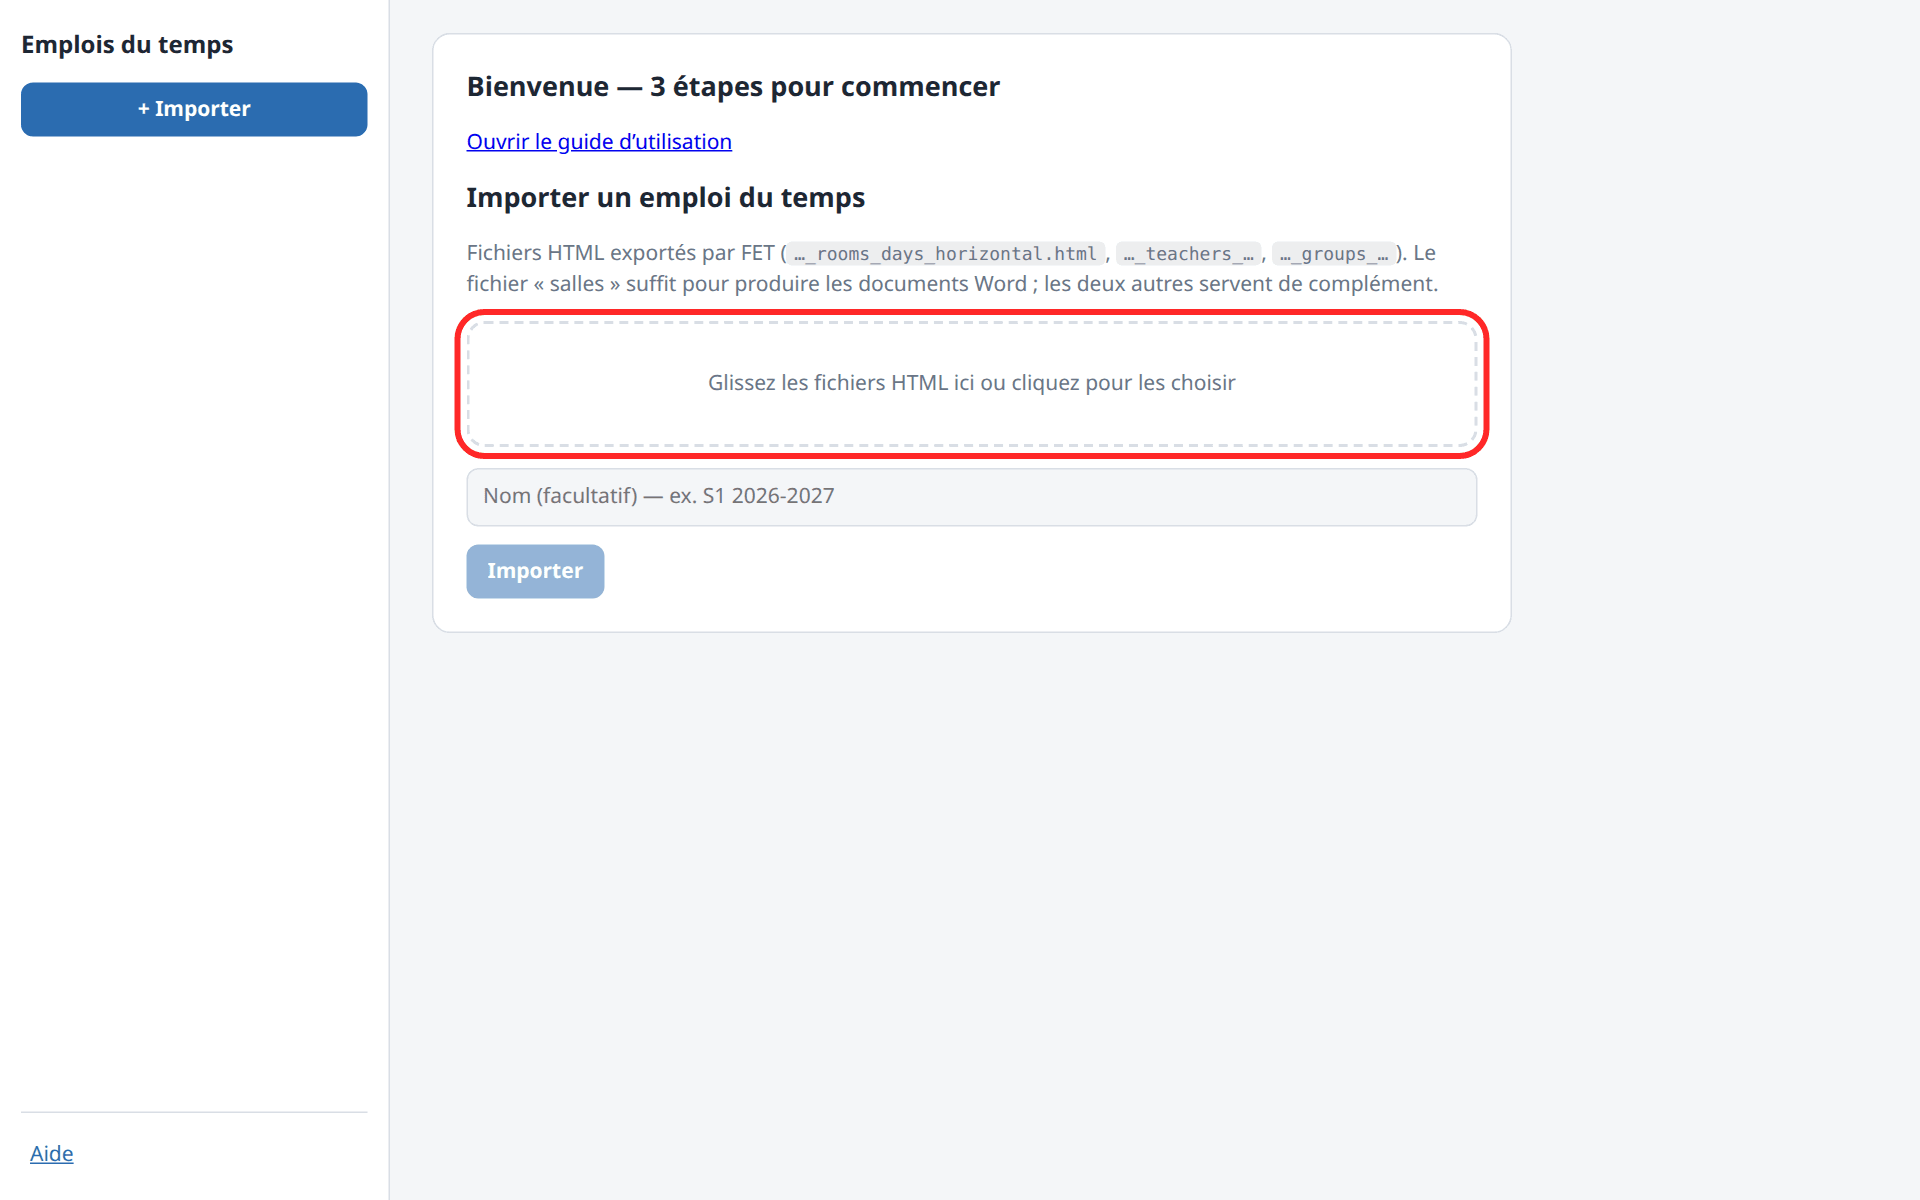
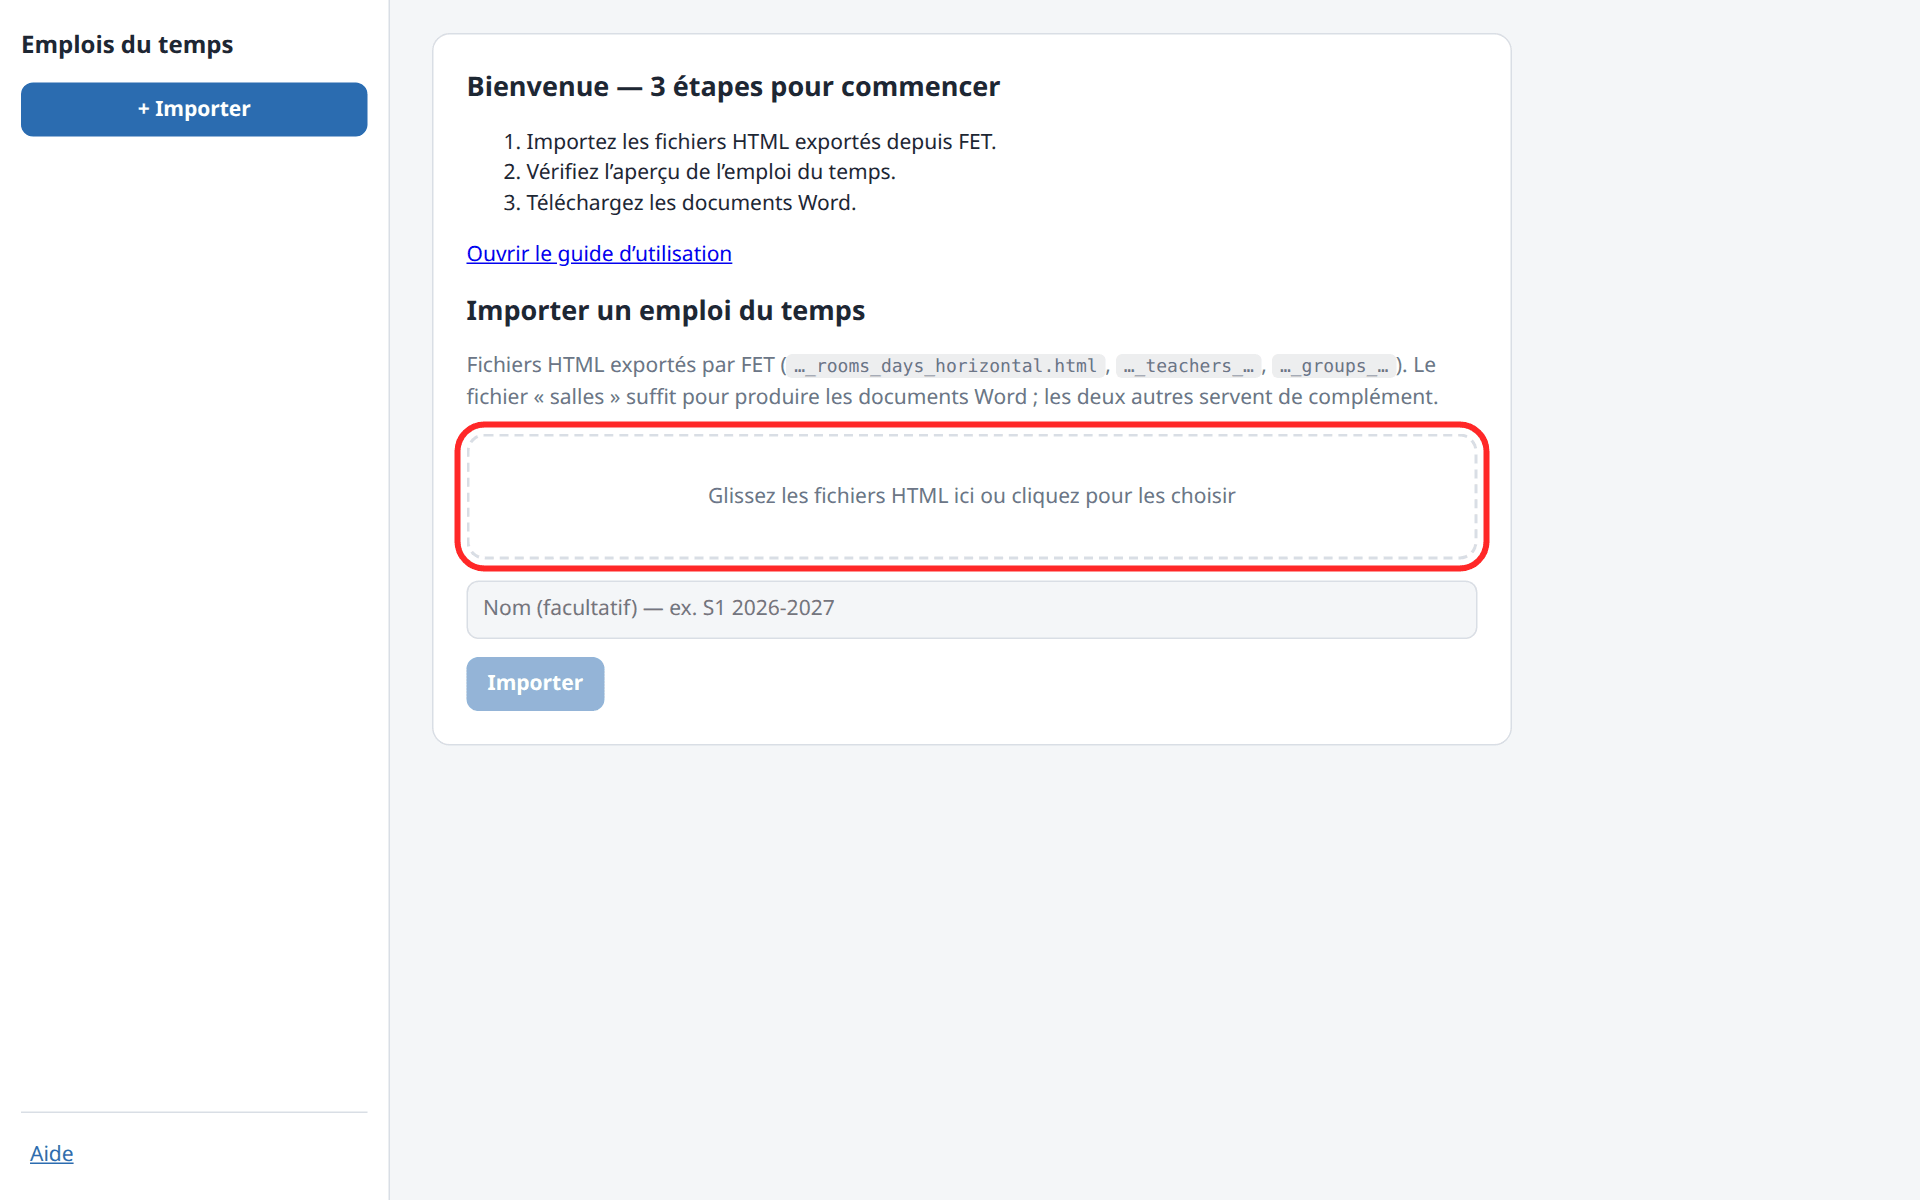
fix: address user guide review findings

Changed region(s): [[0.2188, 0.0925, 0.7812, 0.6167]]

diff --git a/apps/web/test/guide.test.tsx b/apps/web/test/guide.test.tsx
@@ -4,6 +4,8 @@ import path from 'node:path';
 import ts from 'typescript';
 import { afterEach, describe, expect, it } from 'vitest';
 import { renderGuide } from '../../../scripts/guide-build.mjs';
+import Guide from '../app/aide/guide';
+import { fireEvent, render, screen, waitFor } from '@testing-library/react';
 
 const root = path.resolve(__dirname, '../../..');
 const temporary: string[] = [];
@@ -33,6 +35,15 @@ describe('guide build', () => {
     expect(html).toContain('id="chapitre"');
     expect(html).toContain('href="#chapitre"');
     expect(html).toContain('src="/guide/example.png"');
+    expect(html).toContain('alt="Exemple"');
+  });
+
+  it('decodes a percent-encoded image filename before checking it exists', () => {
+    const directory = fixtureRoot();
+    fs.writeFileSync(path.join(directory, 'apps/web/public/guide/été.png'), 'fake image');
+    const html = renderGuide('# Guide\n\n![Été](../apps/web/public/guide/%C3%A9t%C3%A9.png)', directory);
+    expect(html).toContain('src="/guide/%C3%A9t%C3%A9.png"');
+    expect(html).toContain('alt="Été"');
   });
 
   it('rejects a broken internal anchor', () => {
@@ -54,12 +65,26 @@ describe('guide build', () => {
 });
 
 describe('guide drift protection', () => {
-  it('keeps every bracketed UI label verbatim in the web or desktop source', () => {
+  it('keeps every bracketed UI label as an exact static value in the web or desktop source', () => {
     const guide = fs.readFileSync(path.join(root, 'docs/guide-utilisateur.fr.md'), 'utf8');
-    const source = sourceFiles.map((file) => fs.readFileSync(path.join(root, file), 'utf8')).join('\n');
+    const sourceValues = new Set<string>();
+    const addValue = (value: string) => {
+      const normalized = value.replace(/\s+/g, ' ').trim();
+      if (normalized) sourceValues.add(normalized);
+    };
+    for (const file of sourceFiles) {
+      const source = fs.readFileSync(path.join(root, file), 'utf8');
+      const ast = ts.createSourceFile(file, source, ts.ScriptTarget.Latest, true, ts.ScriptKind.TSX);
+      const visit = (node: ts.Node) => {
+        if (ts.isJsxText(node)) addValue(node.text);
+        if (ts.isStringLiteralLike(node) || ts.isNoSubstitutionTemplateLiteral(node)) addValue(node.text);
+        ts.forEachChild(node, visit);
+      };
+      visit(ast);
+    }
     const labels = [...guide.matchAll(/\*\*\[([^\]]+)\]\*\*/g)].map((match) => match[1]);
     expect(labels.length).toBeGreaterThan(20);
-    const missing = [...new Set(labels)].filter((label) => !source.includes(label));
+    const missing = [...new Set(labels)].filter((label) => !sourceValues.has(label.replace(/\s+/g, ' ').trim()));
     expect(missing, `Labels absents des sources : ${missing.join(', ')}`).toEqual([]);
   });
 
@@ -69,6 +94,8 @@ describe('guide drift protection', () => {
       'Le rappel de mise à jour doit être une fonction': 'Invalid preload callback; internal IPC programming error, not an end-user message.',
       'Backend introuvable': 'Packaging integrity error that needs support; the missing backend path is technical and cannot be repaired by staff.',
       'Vous avez la dernière version': 'Informational success message, not an error.',
+      'Arguments IPC inattendus': 'Internal IPC validation guard; malformed calls can only come from application code, not a user action.',
+      'Chemin de fichier invalide': 'Internal IPC validation guard; the file path is supplied by the application after the native save dialog.',
     };
     const sources = ['apps/api/src', 'apps/desktop/src'].flatMap((directory) => {
       const walk = (current: string): string[] => fs.readdirSync(path.join(root, current), { withFileTypes: true })
@@ -89,15 +116,15 @@ describe('guide drift protection', () => {
       const visit = (node: ts.Node) => {
         if (ts.isNewExpression(node) && ts.isIdentifier(node.expression) && exceptionNames.test(node.expression.text) && node.arguments?.[0]) {
           const message = staticMessage(node.arguments[0]).replace(/[^\p{L}\p{N}’']+$/gu, '').trim();
-          if (/[À-ÿ]/u.test(message)) messages.add(message);
+          if (message) messages.add(message);
         }
         if (ts.isCallExpression(node) && node.expression.kind === ts.SyntaxKind.SuperKeyword && node.arguments[0]) {
           const message = staticMessage(node.arguments[0]).replace(/[^\p{L}\p{N}’']+$/gu, '').trim();
-          if (/[À-ÿ]/u.test(message)) messages.add(message);
+          if (message) messages.add(message);
         }
         if (ts.isPropertyAssignment(node) && node.name.getText(ast).replaceAll("'", '').replaceAll('"', '') === 'message' && ts.isExpression(node.initializer)) {
           const message = staticMessage(node.initializer).replace(/[^\p{L}\p{N}’']+$/gu, '').trim();
-          if (/[À-ÿ]/u.test(message)) messages.add(message);
+          if (message) messages.add(message);
         }
         ts.forEachChild(node, visit);
       };
@@ -113,7 +140,20 @@ describe('guide drift protection', () => {
     });
     expect(missing, `Messages d’erreur non couverts : ${missing.map((message) => `${message} => ${message.split(/\s+…\s+|[.!?]\s*/u).map(normalize).map((chunk) => `${chunk}:${normalizedGuide.includes(chunk)}`).join(' | ')}`).join(', ')}`).toEqual([]);
     expect(messages.size).toBeGreaterThan(20);
+    expect(messages).toContain('Jour invalide');
+    expect(messages).toContain('Dossier invalide');
     const invalidWhitelist = Object.entries(whitelisted).filter(([message, reason]) => ![...messages].some((entry) => entry.startsWith(message)) || reason.length <= 10);
     expect(invalidWhitelist).toEqual([]);
+  });
+});
+
+describe('guide search highlighting', () => {
+  it('normalizes text after clearing marks so later queries can span old match boundaries', async () => {
+    const { container } = render(<Guide html={'<h1 id="guide">Guide</h1><h2 id="chapitre">Chapitre</h2><p>abcdefgh</p>'} version="1.0.0" />);
+    const search = screen.getByRole('searchbox', { name: 'Rechercher dans le guide' });
+    fireEvent.change(search, { target: { value: 'cde' } });
+    await waitFor(() => expect(container.querySelector('.guide-content mark')?.textContent).toBe('cde'));
+    fireEvent.change(search, { target: { value: 'efg' } });
+    await waitFor(() => expect(container.querySelector('.guide-content mark')?.textContent).toBe('efg'));
   });
 });

diff --git a/apps/web/app/globals.css b/apps/web/app/globals.css
@@ -76,7 +76,7 @@ table.grid { border-collapse: collapse; width: 100%; min-width: 760px; color: #1
 .names-savebar { position: sticky; bottom: 10px; z-index: 5; display: flex; align-items: center; justify-content: flex-end; gap: 10px; padding: 10px 14px; border: 1px solid var(--line); border-radius: 10px; background: var(--panel); box-shadow: 0 4px 18px color-mix(in srgb, #000 18%, transparent); }
 .warning { color: #9a6700; background: color-mix(in srgb, #e6a700 12%, var(--panel)); border: 1px solid color-mix(in srgb, #e6a700 35%, var(--line)); border-radius: 8px; padding: 8px 12px; }
 .visually-hidden { position: absolute; width: 1px; height: 1px; padding: 0; margin: -1px; overflow: hidden; clip: rect(0, 0, 0, 0); white-space: nowrap; border: 0; }
-button:focus-visible, a:focus-visible, input:focus-visible, main:focus-visible { outline: 3px solid #ff4d4f; outline-offset: 2px; }
+.guide-shell button:focus-visible, .guide-shell a:focus-visible, .guide-shell input:focus-visible, .guide-shell main:focus-visible { outline: 3px solid #ff4d4f; outline-offset: 2px; }
 .guide-shell { --guide-bg: #fff; --guide-ink: #202936; --guide-muted: #596675; --guide-line: #ccd4dd; --guide-accent: #145ca8; min-height: 100vh; background: var(--guide-bg); color: var(--guide-ink); font: 16px/1.65 system-ui, 'Segoe UI', sans-serif; }
 @media (prefers-color-scheme: dark) { .guide-shell { --guide-bg: #161b21; --guide-ink: #edf2f7; --guide-muted: #b5c0cc; --guide-line: #3b4652; --guide-accent: #8bc4ff; } }
 .guide-skip { position: absolute; left: -10000px; top: 8px; z-index: 30; background: var(--guide-bg); color: var(--guide-ink); padding: 8px; }

diff --git a/apps/desktop/src/main.ts b/apps/desktop/src/main.ts
@@ -312,20 +312,26 @@ async function saveGuideAsPdf() {
     filters: [{ name: 'Document PDF', extensions: ['pdf'] }],
   });
   if (result.canceled || !result.filePath) return;
-  const returnUrl = win.webContents.getURL();
+  let printWindow: BrowserWindow | undefined;
   try {
-    const origin = new URL(returnUrl).origin;
-    await win.loadURL(`${origin}/aide/`);
-    const pdf = await win.webContents.printToPDF({ pageSize: 'A4', printBackground: true, preferCSSPageSize: true });
+    const origin = new URL(win.webContents.getURL()).origin;
+    printWindow = new BrowserWindow({
+      show: false,
+      width: 1280,
+      height: 900,
+      webPreferences: { contextIsolation: true, nodeIntegration: false, sandbox: true },
+    });
+    await printWindow.loadURL(`${origin}/aide/`);
+    const pdf = await printWindow.webContents.printToPDF({ pageSize: 'A4', printBackground: true, preferCSSPageSize: true });
     fs.writeFileSync(result.filePath, pdf);
   } catch (error) {
-    await dialog.showMessageBox(win, {
+    if (win && !win.isDestroyed()) await dialog.showMessageBox(win, {
       type: 'error', title: 'Enregistrement impossible',
       message: `Le guide PDF n’a pas pu être enregistré : ${String(error)}`,
       buttons: ['OK'],
     });
   } finally {
-    if (returnUrl && win && !win.isDestroyed()) await win.loadURL(returnUrl).catch(() => {});
+    if (printWindow && !printWindow.isDestroyed()) printWindow.destroy();
   }
 }
 

diff --git a/apps/web/test/names-panel.test.tsx b/apps/web/test/names-panel.test.tsx
@@ -65,6 +65,21 @@ describe('NamesPanel', () => {
     expect(screen.getByText(/deux enseignants auront le même nom affiché/)).not.toBeNull();
   });
 
+  it('asks before leaving with unsaved name changes and cancels navigation when declined', async () => {
+    const confirm = vi.spyOn(window, 'confirm').mockReturnValue(false);
+    try {
+      render(<NamesPanel id="fixture-id" onSaved={vi.fn()} />);
+      const input = await screen.findByRole('textbox', { name: 'Affiché dans Word pour Prof Dupont' });
+      fireEvent.change(input, { target: { value: 'Dupont corrigé' } });
+      const helpLink = screen.getByRole('link', { name: 'Aide sur les noms' });
+      expect(fireEvent.click(helpLink)).toBe(false);
+      expect(confirm).toHaveBeenCalledWith('Des modifications ne sont pas enregistrées. Quitter cette page sans les enregistrer ?');
+      expect(helpLink.getAttribute('href')).toBe('/aide/#noms-et-libelles');
+    } finally {
+      confirm.mockRestore();
+    }
+  });
+
   it('searches names and moves focus to the next visible row with Enter', async () => {
     render(<NamesPanel id="fixture-id" onSaved={vi.fn()} />);
     const first = await screen.findByRole('textbox', { name: 'Affiché dans Word pour Prof Benali' });

diff --git a/e2e/timetable.spec.ts b/e2e/timetable.spec.ts
@@ -53,7 +53,7 @@ test('imports fixtures, previews a day, downloads Word, and updates an export op
     await expect(page.getByText('Hanafi Latifa')).toBeVisible();
 
     const downloadWait = page.waitForEvent('download');
-    await page.getByRole('link', { name: 'Télécharger Lundi.docx' }).click();
+    await page.getByRole('link', { name: 'Télécharger le document du jour' }).click();
     const download = await downloadWait;
     tempDir = fs.mkdtempSync(path.join(os.tmpdir(), 'enis-e2e-'));
     const file = path.join(tempDir, download.suggestedFilename());
@@ -79,7 +79,7 @@ test('imports fixtures, previews a day, downloads Word, and updates an export op
     await expect(page.getByRole('row', { name: /A 0-1/ })).toBeVisible();
 
     const resetDownloadWait = page.waitForEvent('download');
-    await page.getByRole('link', { name: 'Télécharger Lundi.docx' }).click();
+    await page.getByRole('link', { name: 'Télécharger le document du jour' }).click();
     const resetDownload = await resetDownloadWait;
     const resetFile = path.join(tempDir, resetDownload.suggestedFilename());
     await resetDownload.saveAs(resetFile);

diff --git a/apps/web/components/NamesPanel.tsx b/apps/web/components/NamesPanel.tsx
@@ -174,7 +174,16 @@ export function NamesPanel({ id, onSaved }: { id: string; onSaved: () => void })
       <div className="names-toolbar">
         <p className="muted">Les corrections s’appliquent à tous les emplois du temps de cette base.</p>
         <div className="actions">
-          <a className="btn" href="/aide/#noms-et-libelles" aria-label="Aide sur les noms">? Aide sur les noms</a>
+          <a
+            className="btn"
+            href="/aide/#noms-et-libelles"
+            aria-label="Aide sur les noms"
+            onClick={(event) => {
+              if (dirtyCount > 0 && !window.confirm('Des modifications ne sont pas enregistrées. Quitter cette page sans les enregistrer ?')) {
+                event.preventDefault();
+              }
+            }}
+          >? Aide sur les noms</a>
           <button onClick={() => void exportNames()}>Exporter les noms (.json)</button>
           <button
             onClick={() => fileInput.current?.click()}

diff --git a/apps/web/components/ImportPanel.tsx b/apps/web/components/ImportPanel.tsx
@@ -33,7 +33,15 @@ export function ImportPanel({ timetable, onDone }: { timetable?: Timetable; onDo
 
   return (
     <div className="card">
-      {!timetable && <><h2>Bienvenue — 3 étapes pour commencer</h2><p><a href="/aide/">Ouvrir le guide d’utilisation</a></p></>}
+      {!timetable && <>
+        <h2>Bienvenue — 3 étapes pour commencer</h2>
+        <ol>
+          <li>Importez les fichiers HTML exportés depuis FET.</li>
+          <li>Vérifiez l’aperçu de l’emploi du temps.</li>
+          <li>Téléchargez les documents Word.</li>
+        </ol>
+        <p><a href="/aide/">Ouvrir le guide d’utilisation</a></p>
+      </>}
       <h2>{timetable ? 'Ajouter ou remplacer des fichiers' : 'Importer un emploi du temps'}</h2>
       <p className="muted">
         Fichiers HTML exportés par FET (<code>…_rooms_days_horizontal.html</code>, <code>…_teachers_…</code>, <code>…_groups_…</code>).

diff --git a/apps/web/app/aide/guide.tsx b/apps/web/app/aide/guide.tsx
@@ -53,10 +53,15 @@ export default function Guide({ html, version }: { html: string; version: string
       }
     }
     const escaped = query.trim().replace(/[.*+?^${}()|[\]\\]/g, '\\$&');
+    const normalizedParents = new Set<Node>();
     for (const mark of root.querySelectorAll('mark[data-guide-search]')) {
       const parent = mark.parentNode;
-      if (parent) parent.replaceChild(document.createTextNode(mark.textContent ?? ''), mark);
+      if (parent) {
+        parent.replaceChild(document.createTextNode(mark.textContent ?? ''), mark);
+        normalizedParents.add(parent);
+      }
     }
+    for (const parent of normalizedParents) parent.normalize();
     if (escaped) {
       const expression = new RegExp(escaped, 'giu');
       const containsExpression = new RegExp(escaped, 'iu');

diff --git a/AGENTS.md b/AGENTS.md
@@ -80,7 +80,7 @@ Test commands:
 - `npm run test:verify -w apps/api -- <html-dir> [out-dir]`: fixture parity check and sample DOCX generation.
 
 ## Do / Don't
-- When a UI label or user-visible behaviour changes, update `docs/guide-utilisateur.fr.md` and run `npm run guide:screenshots`.
+- When a UI label or user-visible behaviour changes, update `docs/guide-utilisateur.fr.md` and run `npm run guide:screenshots` (requires Playwright Chromium, LibreOffice Writer, and Poppler `pdftoppm`; see the README's “Documentation utilisateur” section).
 - **DO** keep HTTP and DB listeners strictly bound to `127.0.0.1`.
 - **DO** write pure, deterministic functions in parser and export modules.
 - **DO** ask before introducing new dependencies or changing package versions.

diff --git a/README.md b/README.md
@@ -221,7 +221,7 @@ Stop the local server after the test. The update artifacts must be from the same
 
 ## Documentation utilisateur
 
-Le guide français maintenu se trouve dans `docs/guide-utilisateur.fr.md`. Les mentions d’interface suivent la convention `**[Libellé exact]**`, vérifiée par un test contre les textes de l’application.
+Le guide français maintenu se trouve dans `docs/guide-utilisateur.fr.md`. Les mentions d’interface suivent la convention `**[Libellé exact]**`, vérifiée par un test qui compare les valeurs statiques entières des textes et libellés de l’interface.
 
 Pour régénérer les captures synthétiques avec Playwright et construire le fragment HTML statique du guide :
 
